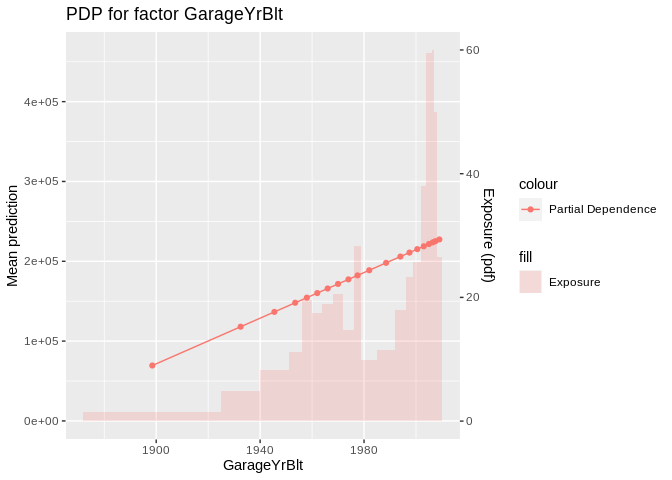
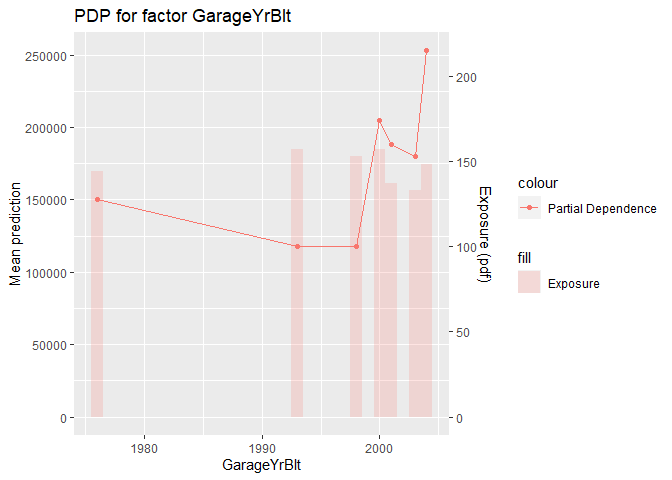
changing to poor xgboost

diff --git a/README.md b/README.md
@@ -1,14 +1,11 @@
 
 <!-- README.md is generated from README.Rmd. Please edit that file -->
 
-codeBase
-========
+# codeBase
 
-Introduction
-============
+# Introduction
 
-What functions are included in the package?
--------------------------------------------
+## What functions are included in the package?
 
 Currently the master branch contains the following functions however we
 have many others as pull request
@@ -38,11 +35,9 @@ ls("package:codeBase")
 #> [41] "prep_num_bin"                   "prep_numeric_caps"
 ```
 
-Using the Package
-=================
+# Using the Package
 
-Import ‘Predicting Household Sale Prices’ dataset
--------------------------------------------------
+## Import ‘Predicting Household Sale Prices’ dataset
 
 Importing the packages inbuilt testing datasets
 
@@ -54,8 +49,7 @@ data(hh_test)
 This data is the Californian house prices dataset and has a target of
 SalePrice
 
-Data Exploration
-----------------
+## Data Exploration
 
 ### expl\_na
 
@@ -142,7 +136,6 @@ levels than can usefully be modelled
 
 ``` r
 hh_train %>% group_by(Neighborhood) %>% summarise(Volume = n()) %>% kable()
-#> `summarise()` ungrouping output (override with `.groups` argument)
 ```
 
 | Neighborhood | Volume |
@@ -189,7 +182,6 @@ which gives us with the transformed factor
 ``` r
 hh_train$nhood_freq <- factor(x = nhood_freq$data, labels = nhood_freq$levels)
 hh_train %>% group_by(nhood_freq) %>% summarise(Volume = n()) %>% kable()
-#> `summarise()` ungrouping output (override with `.groups` argument)
 ```
 
 | nhood\_freq | Volume |
@@ -202,65 +194,77 @@ hh_train %>% group_by(nhood_freq) %>% summarise(Volume = n()) %>% kable()
 | Somerst     |     85 |
 | Other       |    782 |
 
-Build a Model
--------------
+## Build a Model
 
 We build a model using standard R functions
 
 ``` r
 hh_train %<>% mutate(GarageYrBlt = coalesce(GarageYrBlt, YearBuilt))
-model_vars <- c('GarageYrBlt', 'nhood_freq', 'OverallCond', 'ExterCond', target)
+model_vars <- c('GarageYrBlt', 'nhood_freq', 'OverallCond', 'YearBuilt', 'YrSold', target)
 hh_train %<>% select(all_of(model_vars))
-model <- stats::glm(formula = 'SalePrice ~ .',
-                   family = 'gaussian',
-                   data = hh_train)
-summary(model)
+
+dataset <- sample(1:10, nrow(hh_train), replace = TRUE)
+dTrn <- hh_train[dataset[dataset<8],]
+dVal <- hh_train[dataset[dataset>7],]
+
+mTrn <- model.matrix(~., select(dTrn, -SalePrice))
+mVal <- model.matrix(~., select(dVal, -SalePrice))
+
+xTrn <- xgb.DMatrix(mTrn, label = dTrn$SalePrice)
+xVal <- xgb.DMatrix(mVal, label = dVal$SalePrice)
+
+params_xgb <- list(nthread = 4
+                   ,alpha = 0
+                   ,lambda = 1
+                   ,booster = 'gbtree'
+                   ,objective = "reg:squarederror" ,eval_metric = 'rmse' ,maximize = FALSE
+)
+
+model_xgb <- xgb.train(data = xTrn
+                       ,params = params_xgb  
+                       ,nrounds = 100
+                       ,early_stopping_rounds = 250
+                       ,print_every_n = 20
+                       ,watchlist = list(train = xTrn, eval = xVal))
+#> [09:27:47] WARNING: amalgamation/../src/learner.cc:573: 
+#> Parameters: { "maximize" } might not be used.
 #> 
-#> Call:
-#> stats::glm(formula = "SalePrice ~ .", family = "gaussian", data = hh_train)
+#>   This may not be accurate due to some parameters are only used in language bindings but
+#>   passed down to XGBoost core.  Or some parameters are not used but slip through this
+#>   verification. Please open an issue if you find above cases.
 #> 
-#> Deviance Residuals: 
-#>     Min       1Q   Median       3Q      Max  
-#> -149874   -41215    -9310    24283   533214  
 #> 
-#> Coefficients:
-#>                     Estimate Std. Error t value Pr(>|t|)    
-#> (Intercept)       -2.596e+06  1.740e+05 -14.918   <2e-16 ***
-#> GarageYrBlt        1.429e+03  8.272e+01  17.278   <2e-16 ***
-#> nhood_freqNAmes   -3.426e+04  2.755e+04  -1.244   0.2138    
-#> nhood_freqCollgCr -2.898e+04  2.778e+04  -1.043   0.2971    
-#> nhood_freqOldTown -3.282e+04  2.800e+04  -1.172   0.2414    
-#> nhood_freqEdwards -4.614e+04  2.800e+04  -1.648   0.0996 .  
-#> nhood_freqSomerst -1.090e+04  2.822e+04  -0.386   0.6995    
-#> nhood_freqOther   -2.111e+03  2.729e+04  -0.077   0.9383    
-#> OverallCond        4.563e+03  1.799e+03   2.537   0.0113 *  
-#> ExterCondFa       -8.469e+04  4.153e+04  -2.039   0.0416 *  
-#> ExterCondGd       -5.672e+04  3.920e+04  -1.447   0.1481    
-#> ExterCondPo       -1.076e+05  7.813e+04  -1.377   0.1689    
-#> ExterCondTA       -5.770e+04  3.915e+04  -1.474   0.1407    
-#> ---
-#> Signif. codes:  0 '***' 0.001 '**' 0.01 '*' 0.05 '.' 0.1 ' ' 1
+#> [1]  train-rmse:150514.562500    eval-rmse:98545.468750 
+#> Multiple eval metrics are present. Will use eval_rmse for early stopping.
+#> Will train until eval_rmse hasn't improved in 250 rounds.
 #> 
-#> (Dispersion parameter for gaussian family taken to be 4428088746)
-#> 
-#>     Null deviance: 9.2079e+12  on 1459  degrees of freedom
-#> Residual deviance: 6.4074e+12  on 1447  degrees of freedom
-#> AIC: 36587
-#> 
-#> Number of Fisher Scoring iterations: 2
-hh_train$pred <- predict(object = model, newdata = hh_train)
+#> [21] train-rmse:127.156044   eval-rmse:49563.132812 
+#> [41] train-rmse:0.108875 eval-rmse:49639.621094 
+#> [61] train-rmse:0.018694 eval-rmse:49639.707031 
+#> [81] train-rmse:0.018694 eval-rmse:49639.707031 
+#> [100]    train-rmse:0.018694 eval-rmse:49639.707031
+
+
+dTrn$pred <- predict(object = model_xgb, newdata = xTrn)
+dVal$pred <- predict(object = model_xgb, newdata = xVal)
+
+xgboost::xgb.importance(feature_names = colnames(mTrn),
+                                                          model = model_xgb)
+#>              Feature         Gain       Cover   Frequency
+#> 1:       GarageYrBlt 9.866174e-01 0.877731160 0.872964169
+#> 2: nhood_freqCollgCr 1.338263e-02 0.117529988 0.123778502
+#> 3:         YearBuilt 9.971814e-15 0.004738852 0.003257329
 ```
 
-Model Evaluation
-----------------
+## Model Evaluation
 
 ### plot\_PDP
 
 We can now plot PDP plots for any factor
 
 ``` r
-codeBase::plot_PDP(data = hh_train,
-               model = model,
+codeBase::plot_PDP(data = as.data.frame(mTrn),
+               model = model_xgb,
                explain_col = 'GarageYrBlt',
                n_bins = 20,
                use_plotly = FALSE)
@@ -268,44 +272,13 @@ codeBase::plot_PDP(data = hh_train,
 
 ![](README_files/figure-gfm/plot_PDP-1.png)<!-- -->
 
-### plot\_PDP for 2 factors
-
-We can also plot pairs of factors
-
-``` r
-codeBase::plot_PDP(data = hh_train,
-               model = model,
-               explain_col = c('GarageYrBlt', 'OverallCond'),
-               n_bins = 10,
-               use_plotly = FALSE)
-```
-
-![](README_files/figure-gfm/plot_2D_PDP-1.png)<!-- -->
-
-Note: OverallCond: Rates the overall condition of the house 10 - Very
-Excellent 1 - Very Poor
-
-### plot\_ALE
-
-We can now plot ALE plots for any factor
-
-``` r
-codeBase::plot_ALE(data = hh_train,
-               model = model,
-               explain_col = 'GarageYrBlt',
-               n_bins = 20,
-               use_plotly = FALSE)
-```
-
-![](README_files/figure-gfm/plot_ALE-1.png)<!-- -->
-
 ### plot\_lift\_curve
 
 We can also plot useful global model outputs such as lift curves
 
 ``` r
-codeBase::plot_lift_curve(actual = hh_train$SalePrice,
-                      predicted = hh_train$pred,
+codeBase::plot_lift_curve(actual = dTrn$SalePrice,
+                      predicted = dTrn$pred,
                       use_plotly = FALSE)
 ```
 
@@ -317,20 +290,20 @@ Some users may require plotly and others ggplot2 so all plots work with
 both engines. This can be controlled with the `use_plotly` parameter of
 the plotting functions.
 
-Metrics
--------
+## Metrics
 
 We have many metrics all of which have the same construction of
 arguments meaning they can be used by other functions or in loops
 
 ``` r
-codeBase::metric_rmse(actual = hh_train$SalePrice, predicted = hh_train$pred)
-#> [1] 66246.97
-codeBase::metric_mae(actual = hh_train$SalePrice, predicted = hh_train$pred)
-#> [1] 46343.42
+codeBase::metric_rmse(actual = dTrn$SalePrice, predicted = dTrn$pred)
+#> [1] 36530.87
+codeBase::metric_mae(actual = dTrn$SalePrice, predicted = dTrn$pred)
+#> [1] 35177.08
 
-codeBase::metric_deviance(actual = hh_train$SalePrice, predicted = hh_train$pred, family = "gaussian")
-#> [1] 4388660559
-codeBase::metric_nloglik(actual = hh_train$SalePrice, predicted = hh_train$pred, family = "gaussian")
-#> [1] 12.54942
+codeBase::metric_deviance(actual = dTrn$SalePrice, predicted = dTrn$pred, family = "gaussian")
+#> [1] 1334504222
+codeBase::metric_nloglik(actual = dTrn$SalePrice, predicted = dTrn
+                         $pred, family = "gaussian")
+#> [1] 12.06549
 ```
